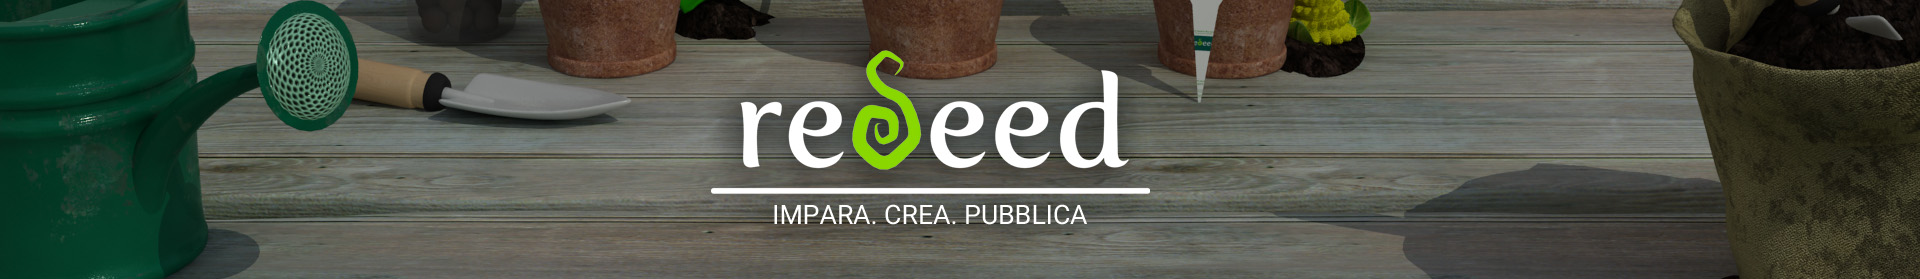
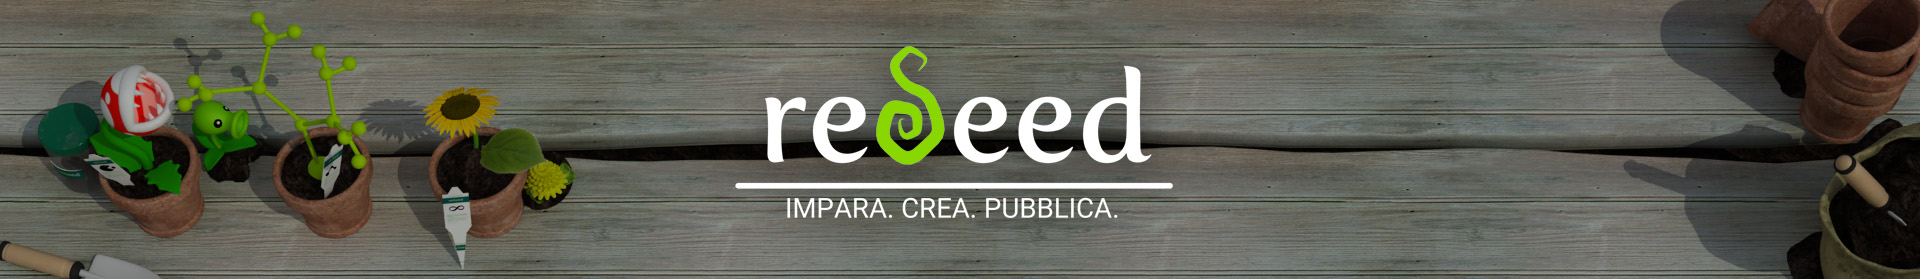
fix

diff --git a/stylesheets/screen.css b/stylesheets/screen.css
@@ -1922,7 +1922,7 @@ mark,
 }
 
 /* line 90, ../sass/bootstrap/_type.scss */
-.text-left, #navbar-home, #courses #tiles-courses .tile .back, #activities #tiles-activities .tile .back, #contacts #contact-form, #contacts #contacts-list, #profile .high-score-name {
+.text-left, #navbar-home, #courses #tiles-courses .tile .back, #activities #tiles-activities .tile .back, #contacts #contact-form, #contacts #contacts-list, #profile .high-score-name, .full-row .in-main, .full-row #admin, .full-row #presentation, .full-row #team #team-wrapper, #team .full-row #team-wrapper, .full-row #courses, .full-row #singleCourse, .full-row #activities, .full-row #singleActivity, .full-row #media, .full-row #contacts, .full-row #payment-disclaimer-modal, .full-row #payment, .full-row #faqPage, .full-row #profile, .full-row .modal-wrapper, .full-row #preferences, .full-row #tutorial, .full-row #tutorials, .full-row #write-tutorial, .full-row .game {
   text-align: left;
 }
 
@@ -17802,7 +17802,7 @@ blockquote {
   border-left: 10px solid #eeeeee;
 }
 
-/* line 94, ../sass/_reseed.scss */
+/* line 97, ../sass/_reseed.scss */
 .bookmark, #courses .category-bookmark {
   z-index: 100;
   position: relative;
@@ -17812,12 +17812,12 @@ blockquote {
   margin-bottom: 1em;
 }
 
-/* line 107, ../sass/_reseed.scss */
+/* line 110, ../sass/_reseed.scss */
 .bookmark-content {
   height: 4em;
 }
 
-/* line 111, ../sass/_reseed.scss */
+/* line 114, ../sass/_reseed.scss */
 .bookmark-tail {
   position: absolute;
   left: 0;

diff --git a/sass/_reseed.scss b/sass/_reseed.scss
@@ -89,6 +89,9 @@ blockquote{
 
 .full-row{
 	@extend .col-100;
+	.in-main{
+		@extend .text-left;
+	}
 }
 
 .bookmark{

diff --git a/templates/eventAd.php b/templates/eventAd.php
@@ -1,12 +1,13 @@
 <div class="full-row bg-lighter-grey">
 	<div class="in-main">
-		<h3 class="jungle">Se ancora non sei convinto, vieni a trovarci!</h3><br />
-		<a href="https://www.facebook.com/events/1746771425592086/" target="_blank"><img class="float" style="max-width:50%" src="imgs/jjAd.jpg"></a>
-		<div class="float text-left offset-1">
-			<a href="https://www.facebook.com/events/1746771425592086/" target="_blank"><h5><span class="fa fa-calendar fa-2x middle"></span><span class="middler"></span><span class="offset-1 middle">Dietro le quinte di un videogioco di successo</span></h5></a>
-			 <p><b>Quando:</b> 11.04.2016 - Dalle 15:00 alle 18:00 </p>
-			 <p><b>Dove:</b> <a href="https://goo.gl/maps/Y2k68kuJuaz" target="_blank">Via Tiburtina 912</a> - zona Rebibbia</p><br />
-			 <p>Scopriamo come è fatto Jetpack Joyride, perché ha avuto successo, e sviluppiamolo assieme.</p>
-		 </div>
+		<h3 class="jungle text-center">Se ancora non sei convinto, vieni a trovarci!</h3><br />
+		<a href="https://www.facebook.com/events/1746771425592086/" target="_blank"><img class="float" style="max-width:50%; margin-right: 1em; margin-bottom: 1em;" src="imgs/jjAd.jpg"></a>
+		<a href="https://www.facebook.com/events/1746771425592086/" target="_blank"><h5><span class="fa fa-calendar fa-2x middle"></span><span class="middler"></span><span class="offset-1 middle">Dietro le quinte di un videogioco di successo</span></h5></a><br/>
+		<p><b>Quando:</b> 11.04.2016 - Dalle 15:00 alle 18:00 </p>
+		<p><b>Dove:</b> <a href="https://goo.gl/maps/Y2k68kuJuaz" target="_blank">Via Tiburtina 912</a> - zona Rebibbia</p><br />
+		<p>Conoscete Jetpack Joyride? Il gioco mobile da milioni di download? L'infinite runner dal successo planetario? Quello.</p>
+		<p>Vi siete mai chiesti cosa lo ha reso un gran successo? O che problemi hanno dovuto affrontare gli sviluppatori nel realizzarlo? O ancora, pensate sia difficile programmare un gioco del genere? (Spoiler: no!)</p>
+		<p>Venite a scoprire tutte queste cose assieme ai docenti di reSeed!</p>
+		<p>Implementeremo da zero una nostra versione di Jetpack Joyride e ne analizzeremo, giocandola, caratteristiche e bilanciamento, percorrendo la stessa strada che gli sviluppatori hanno dovuto percorrere per rendere un semplice infinite runner il gioco dell'anno.</p>
 	</div>	
 </div>

diff --git a/application/views/index.php b/application/views/index.php
@@ -22,7 +22,7 @@
         <div id="header" ng-if="!miniHeader()"></div>
         <div class="mini-header" ng-if="miniHeader()">
             <div class="container">
-                <img src="imgs/mini-header.png" />
+                <img src="imgs/mini-header.jpg" />
             </div>
         </div>
 <!-- 				<h3 class="text-center" style="margin-top:1em">In evidenza</h3> -->
